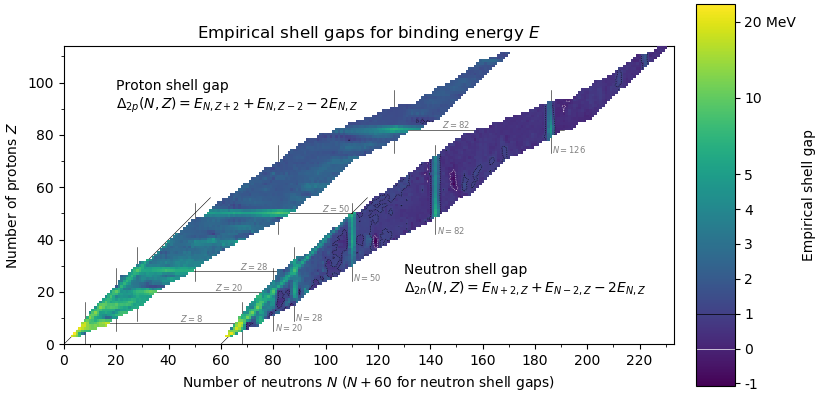
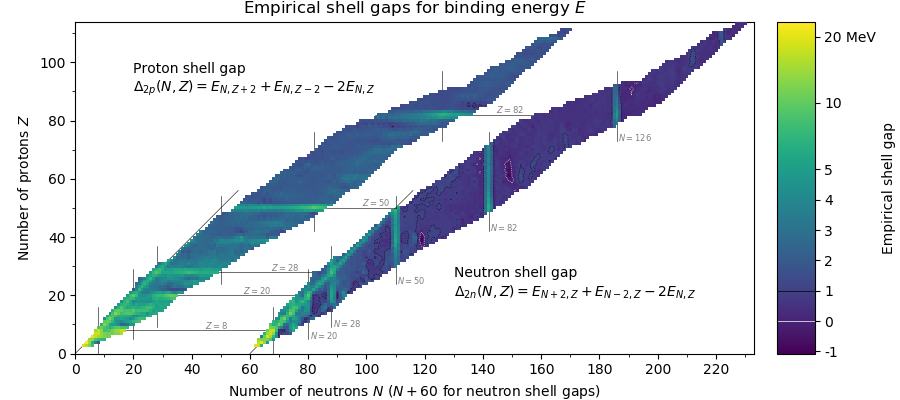
Fix shell gap width

Changed region(s): [[0.0, 0.0, 0.9768, 1.0], [0.9768, 0.3, 1.0, 0.66], [0.2747, 0.45, 0.3053, 0.48]]

diff --git a/shell_gap.py b/shell_gap.py
@@ -88,5 +88,5 @@ for l, xy in (
 ):
     ax.annotate(l, xy)
 
-fig.set_size_inches(8.2, 4)
+fig.set_size_inches(9, 4)
 pyplot.savefig('shell_gap.png', transparency=True)
